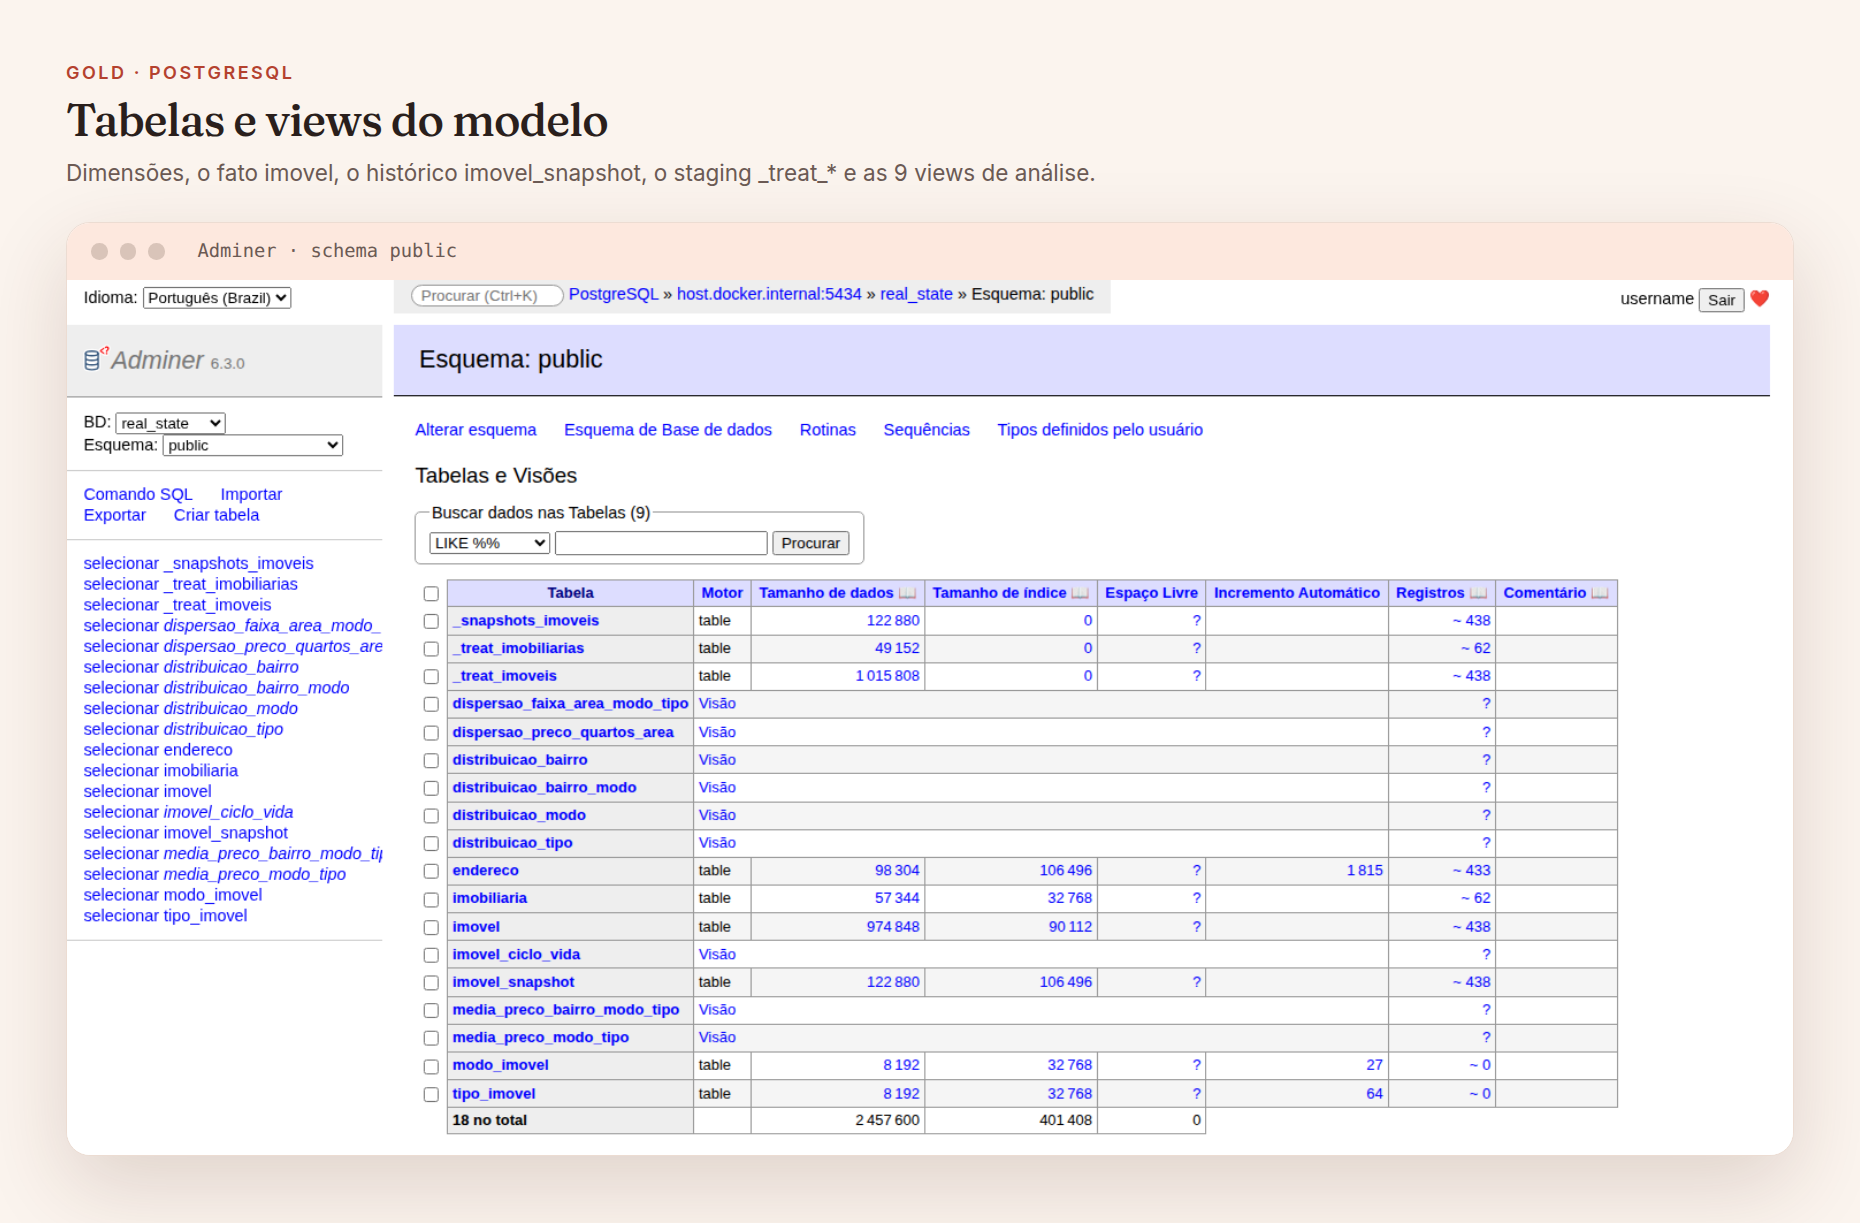
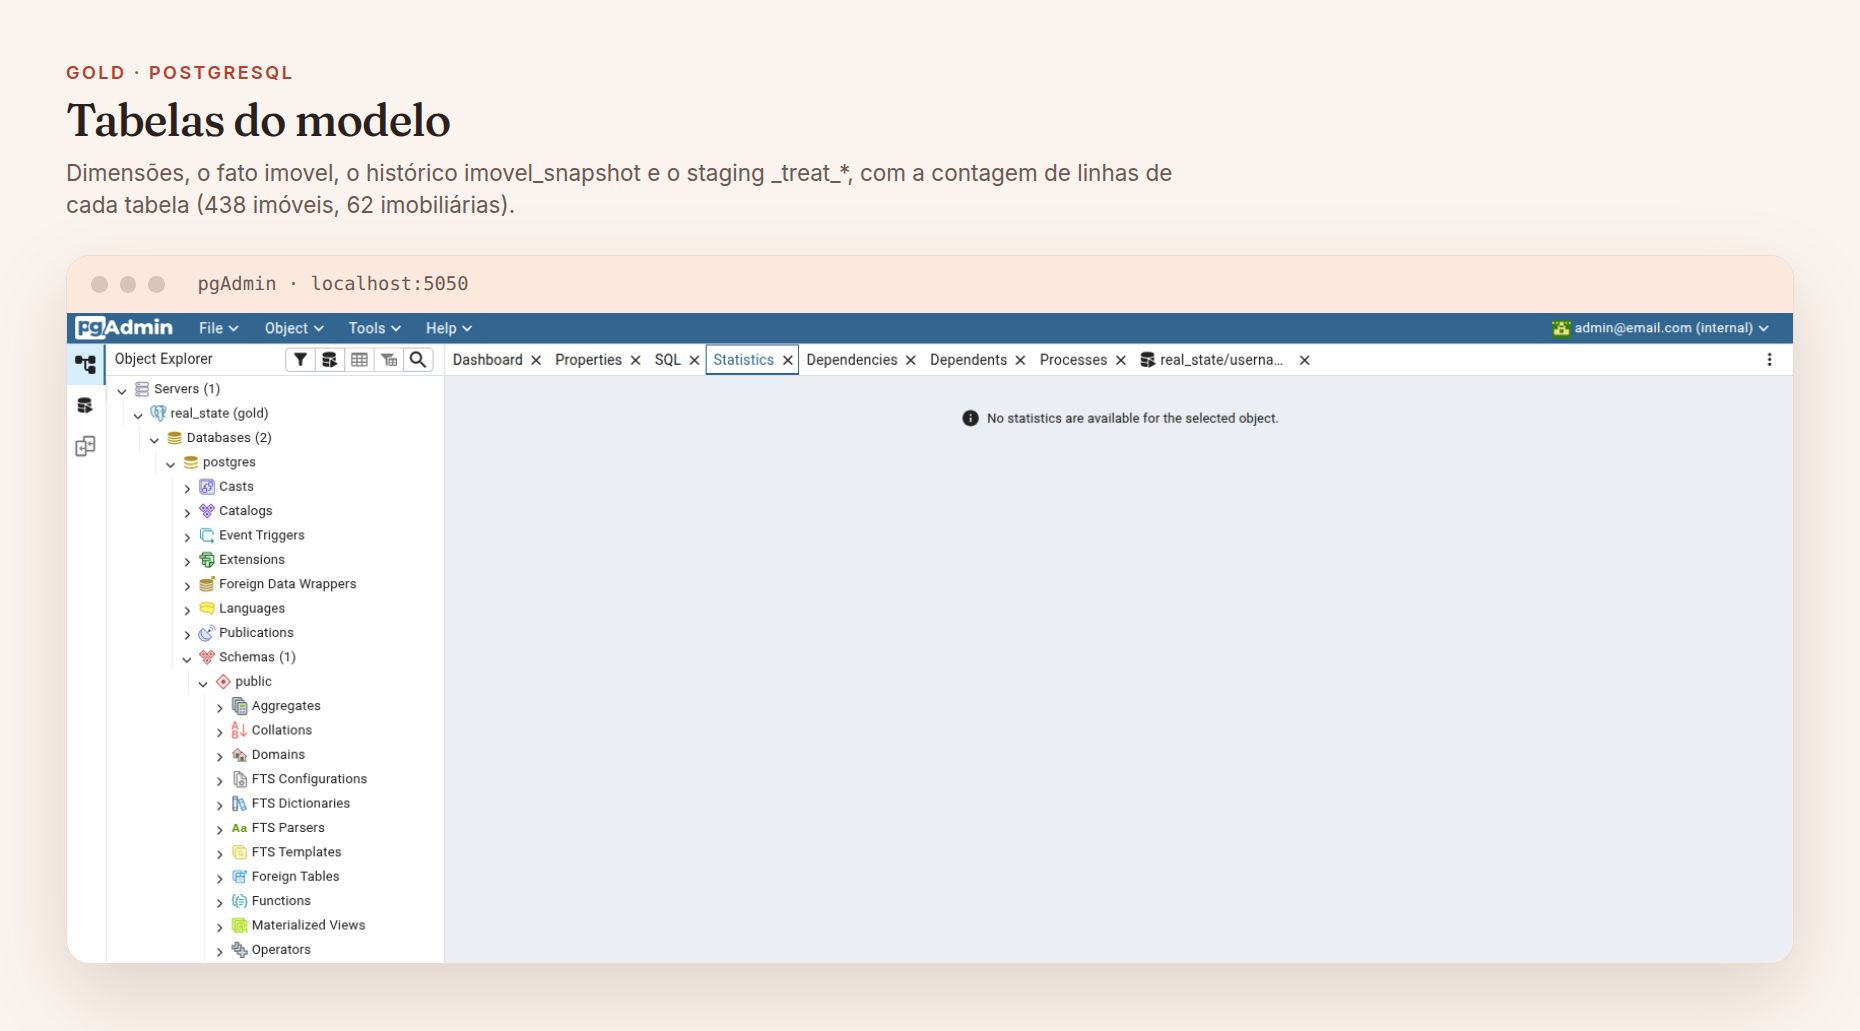
feat: enhance docker-compose setup with pgAdmin integration and add servers.json for database management; update README and build_captures.py for improved tool usage

diff --git a/docs/diagrams/build_captures.py b/docs/diagrams/build_captures.py
@@ -1,8 +1,9 @@
 """Captura as ferramentas reais (storage, Mongo, Postgres) e as coloca em molduras do app.
 
 Uso: python docs/diagrams/build_captures.py
-Requer, no ar: RustFS (9001), Mongo Express (8082) e Adminer (8083), apontando para os bancos
-do projeto (veja o README). Saída em docs/images/capturas/.
+Requer, no ar e com dados: RustFS (9001), Mongo Express (8082) e pgAdmin (5050), todos do
+docker-compose.yml (`docker compose --profile tools up -d`). Saída em docs/images/capturas/.
+Todas as imagens são capturas reais da tela dessas ferramentas, dentro de uma moldura do app.
 """
 import base64
 import io
@@ -11,35 +12,14 @@ import time
 from pathlib import Path
 
 sys.path.insert(0, str(Path(__file__).resolve().parent))
+from selenium.webdriver.common.action_chains import ActionChains  # noqa: E402
 from selenium.webdriver.common.by import By  # noqa: E402
+from selenium.webdriver.common.keys import Keys  # noqa: E402
 from theme import IMAGES, open_browser, page, render, screenshot  # noqa: E402
 
 OUT = IMAGES / "capturas"
-ADMINER = "http://localhost:8083/?pgsql=host.docker.internal%3A5434&username=username&db=real_state"
-
-# Saída real de uma execução (19/11/2026), usada na imagem de terminal
-TERMINAL = [
-    ("cmd", "docker ps"),
-    ("dim", "NAMES                 IMAGE           STATUS"),
-    ("out", "real_state_postgres   postgres:13     Up 2 hours"),
-    ("out", "real_state_mongo      mongo:7.0       Up 2 hours"),
-    ("out", "real_state_minio      rustfs/rustfs   Up About an hour"),
-    ("gap", ""),
-    ("cmd", "WORKER_ID=w1 python scripts/etl/extraction/property.py &"),
-    ("cmd", "WORKER_ID=w2 python scripts/etl/extraction/property.py &"),
-    ("out", "15:48:10 INFO  Worker w1 iniciado"),
-    ("out", "15:48:12 INFO  [w2] anuncio/2026-11-19/2912557103.html.gz"),
-    ("out", "15:48:16 INFO  [w1] anuncio/2026-11-19/2912889421.html.gz"),
-    ("out", "15:48:19 INFO  [w2] anuncio/2026-11-19/2904909009.html.gz"),
-    ("out", "15:48:21 INFO  [w1] anuncio/2026-11-19/2905368929.html.gz"),
-    ("gap", ""),
-    ("cmd", "python scripts/etl/extraction/parse_property.py"),
-    ("out", "INFO  147 HTMLs para processar (reprocess=False)"),
-    ("ok", "INFO  Qualidade: 147 ok, 0 erros, nulos {}"),
-    ("gap", ""),
-    ("cmd", "python scripts/etl/load/model.py"),
-    ("ok", "INFO  Modelagem aplicada"),
-]
+PGADMIN = "http://localhost:5050"
+PG_SERVER = "real_state (gold)"
 
 FIGURES = [
     ("storage-s3", "Bronze · storage S3", "HTML bruto, comprimido",
@@ -51,12 +31,14 @@ FIGURES = [
     ("mongo-qualidade", "Silver · qualidade", "Cada execução deixa suas métricas",
      "O parsing registra o total, os erros e a taxa de campos vazios antes de gravar. "
      "Aqui: 125 e 147 anúncios, 0 erros e 0% de nulos.", "Mongo Express · run_metrics"),
-    ("postgres-tabelas", "Gold · PostgreSQL", "Tabelas e views do modelo",
-     "Dimensões, o fato imovel, o histórico imovel_snapshot, o staging _treat_* e as 9 views de análise.",
-     "Adminer · schema public"),
+    ("postgres-tabelas", "Gold · PostgreSQL", "Tabelas do modelo",
+     "Dimensões, o fato imovel, o histórico imovel_snapshot e o staging _treat_*, com a contagem de "
+     "linhas de cada tabela (438 imóveis, 62 imobiliárias).",
+     "pgAdmin · localhost:5050"),
     ("postgres-view", "Gold · PostgreSQL", "A view imovel_ciclo_vida",
-     "Calcula primeira e última coleta, dias no mercado e variação de preço de cada anúncio (438 registros).",
-     "Adminer · imovel_ciclo_vida"),
+     "Calcula dias no mercado e variação de preço de cada anúncio. Aqui, os 10 anúncios há mais tempo "
+     "no mercado, consultados no Query Tool.",
+     "pgAdmin · Query Tool"),
 ]
 
 FIG_CSS = """
@@ -69,15 +51,6 @@ FIG_CSS = """
 .bar i { width: 11px; height: 11px; border-radius: 50%; background: var(--axis); }
 .bar span { margin-left: 14px; font-size: 12.5px; color: var(--ink-2); }
 .win img { display: block; width: 100%; }
-.term { background: #1d1513; border-radius: 16px; overflow: hidden; box-shadow: 0 20px 56px rgba(80, 40, 25, 0.22); }
-.term .bar { background: #2b201d; }
-.term .bar i { background: #4a3a35; }
-.term .bar span { color: #c9b6ad; }
-.term pre { margin: 0; padding: 22px 26px 26px; font-size: 14px; line-height: 1.7; color: #f6ece6; }
-.term .cmd::before { content: "$ "; color: #e2634d; font-weight: 700; }
-.term .cmd { color: #fff; font-weight: 600; }
-.term .dim { color: #9c8a82; }
-.term .ok { color: #f08a74; }
 """
 
 
@@ -138,20 +111,67 @@ def capture(raw: dict[str, "Image"]) -> None:  # noqa: F821
     finally:
         d.quit()
 
-    # Adminer: tabelas e a view de ciclo de vida
-    d = open_browser(1500, 900)
+    # pgAdmin: estatísticas das tabelas e a view de ciclo de vida (Query Tool)
+    d = open_browser(1700, 1200)
     try:
-        d.get(ADMINER)
-        time.sleep(1.5)
-        d.find_element(By.NAME, "auth[password]").send_keys("password")
-        d.find_element(By.CSS_SELECTOR, "input[type=submit]").click()
+        d.get(f"{PGADMIN}/login")
+        time.sleep(4)
+        d.find_element(By.NAME, "email").send_keys("admin@email.com")
+        d.find_element(By.NAME, "password").send_keys("admin")
+        d.find_element(By.CSS_SELECTOR, "button[type=submit]").click()
+        time.sleep(8)
+
+        def row(label: str, exact: bool = False):
+            xp = (f"//*[normalize-space(text())='{label}']" if exact
+                  else f"//*[starts-with(normalize-space(text()),'{label}')]")
+            deadline = time.time() + 20
+            while time.time() < deadline:
+                found = [e for e in d.find_elements(By.XPATH, xp) if e.is_displayed()]
+                if found:
+                    return found[0]
+                time.sleep(0.5)
+            raise RuntimeError(f"'{label}' não apareceu no pgAdmin")
+
+        def open_node(label: str, exact: bool = False) -> None:
+            row(label, exact).click()
+            time.sleep(1)
+            ActionChains(d).send_keys(Keys.ARROW_RIGHT).perform()
+            time.sleep(3)
+
+        open_node("Servers", exact=True)
+        ActionChains(d).double_click(row(PG_SERVER, exact=True)).perform()
+        time.sleep(3)
+        if d.find_elements(By.XPATH, "//*[normalize-space(text())='Connect to Server']"):
+            ActionChains(d).send_keys("password").send_keys(Keys.ENTER).perform()  # senha local do compose
+            time.sleep(5)
+        row("Login/Group Roles").click()
+        ActionChains(d).send_keys(Keys.ARROW_LEFT).perform()
+        time.sleep(1)
+        open_node("Databases")
+        open_node("real_state", exact=True)
+        open_node("Schemas")
+        open_node("public", exact=True)
+        open_node("Tables")
+        row("Tables").click()
         time.sleep(2)
-        d.get(ADMINER + "&ns=public")
-        time.sleep(1.5)
-        raw["postgres-tabelas"] = screenshot(d, (0, 0, 1500, 760))
-        d.get(ADMINER + "&ns=public&select=imovel_ciclo_vida&limit=8")
-        time.sleep(2)
-        raw["postgres-view"] = screenshot(d, (0, 0, 1500, 620))
+        d.find_element(By.XPATH, "//*[normalize-space(text())='Statistics']").click()
+        time.sleep(3)
+        raw["postgres-tabelas"] = screenshot(d, (0, 0, 1700, 640))
+
+        # Query Tool sobre o banco real_state
+        row("real_state", exact=True).click()
+        time.sleep(1)
+        d.find_element(By.XPATH, "//*[normalize-space(text())='Tools']").click()
+        time.sleep(1)
+        d.find_element(By.XPATH, "//*[normalize-space(text())='Query Tool']").click()
+        time.sleep(6)
+        sql = ("SELECT bairro, modo, preco_atual, variacao_pct, dias_no_mercado FROM imovel_ciclo_vida "
+               "ORDER BY dias_no_mercado DESC NULLS LAST LIMIT 10;")
+        ActionChains(d).send_keys(sql).perform()
+        time.sleep(1)
+        ActionChains(d).send_keys(Keys.F5).perform()
+        time.sleep(5)
+        raw["postgres-view"] = screenshot(d, (0, 0, 1700, 1130))
     finally:
         d.quit()
 
@@ -180,19 +200,6 @@ def main() -> None:
         size = render(page(figure_html(kicker, title, text, url, body), FIG_CSS, False, width),
                       OUT / f"{name}.png", width, scale=1.5)
         print(OUT.relative_to(IMAGES.parent.parent) / f"{name}.png", size)
-
-    lines = "\n".join(
-        f"<span class='{kind}'>{text}</span>" if kind != "gap" else "" for kind, text in TERMINAL
-    )
-    body = (
-        "<div class='term'><div class='bar'><i></i><i></i><i></i><span class='mono'>terminal · saída real de "
-        f"uma execução</span></div><pre class='mono'>{lines}</pre></div>"
-    )
-    text = ("Dois workers em paralelo guardam o HTML, o parsing passa pelo gate de qualidade e a modelagem "
-            "é aplicada em uma transação.")
-    size = render(page(figure_html("Orquestração", "A esteira em execução", text, "", body), FIG_CSS, False, width),
-                  OUT / "terminal-pipeline.png", width, scale=1.5)
-    print(OUT.relative_to(IMAGES.parent.parent) / "terminal-pipeline.png", size)
 
 
 if __name__ == "__main__":

diff --git a/README.md b/README.md
@@ -51,12 +51,12 @@ As decisões de arquitetura e as alternativas descartadas estão em [docs/ARCHIT
 
 ## A arquitetura funcionando
 
-Capturas das próprias ferramentas, com os dados reais da coleta de 19/11/2026: o HTML bruto no storage, as coleções e as métricas de qualidade no MongoDB, as tabelas e a view de ciclo de vida no PostgreSQL e a esteira rodando no terminal.
+Capturas reais da tela das ferramentas do `docker-compose.yml`, com os dados da coleta de 19/11/2026: o HTML bruto no console do RustFS, as coleções e as métricas de qualidade no Mongo Express, e as tabelas e a view de ciclo de vida no pgAdmin. Os mesmos serviços sobem na sua máquina (veja [Como executar](#como-executar)).
 
 <table>
     <tr><td width="50%"><img src="docs/images/capturas/storage-s3.png" alt="HTML bruto no storage S3 (bronze)"></td><td width="50%"><img src="docs/images/capturas/mongo-colecoes.png" alt="Coleções do MongoDB (silver)"></td></tr>
-    <tr><td width="50%"><img src="docs/images/capturas/mongo-qualidade.png" alt="Métricas de qualidade no MongoDB"></td><td width="50%"><img src="docs/images/capturas/postgres-tabelas.png" alt="Tabelas e views no PostgreSQL (gold)"></td></tr>
-    <tr><td width="50%"><img src="docs/images/capturas/postgres-view.png" alt="View imovel_ciclo_vida"></td><td width="50%"><img src="docs/images/capturas/terminal-pipeline.png" alt="A esteira em execução"></td></tr>
+    <tr><td width="50%"><img src="docs/images/capturas/mongo-qualidade.png" alt="Métricas de qualidade no MongoDB"></td><td width="50%"><img src="docs/images/capturas/postgres-tabelas.png" alt="Tabelas do modelo no pgAdmin (gold)"></td></tr>
+    <tr><td colspan="2"><img src="docs/images/capturas/postgres-view.png" alt="View imovel_ciclo_vida consultada no Query Tool do pgAdmin"></td></tr>
 </table>
 
 ## Resultados medidos
@@ -135,6 +135,7 @@ Detalhes em [app/README.md](app/README.md).
 | Armazenamento | MongoDB (silver), PostgreSQL (gold), storage S3-compatível RustFS (bronze) |
 | App | Express, React, Vite, Recharts, d3-geo |
 | Infra | Docker, Docker Compose |
+| Inspeção | pgAdmin (Postgres), Mongo Express (Mongo), console do RustFS (S3) |
 | Qualidade | pytest, ruff |
 
 ## Estrutura do repositório
@@ -157,6 +158,7 @@ Detalhes em [app/README.md](app/README.md).
 │   ├── api/                    # API Express somente leitura
 │   └── web/                    # Frontend React (Vite)
 ├── tests/                      # pytest (unidade e integração) e HTML de exemplo
+├── infra/pgadmin/              # servers.json: servidor do Postgres já registrado no pgAdmin
 ├── docs/                       # arquitetura, backlog, especificações (spec/), experimentos, imagens e diagramas
 ├── docker-compose.yml
 ├── Dockerfile.airflow
@@ -177,6 +179,20 @@ docker compose up -d real_state_postgres mongo object_store
 ```
 
 Sobe Postgres (porta 5434), MongoDB (27017) e o storage S3 (9000, console em 9001). Todos usam `username` / `password` no ambiente local.
+
+Para inspecionar os dados pelo navegador, suba também as interfaces:
+
+```bash
+docker compose --profile tools up -d pgadmin mongo_express
+```
+
+| Ferramenta | Endereço | Acesso |
+|---|---|---|
+| pgAdmin | http://localhost:5050 | `admin@email.com` / `admin`; o servidor `real_state (gold)` já vem registrado e pede a senha `password` |
+| Mongo Express | http://localhost:8082 | sem login |
+| Console do RustFS | http://localhost:9001 | `username` / `password` |
+
+Se o servidor não aparecer no pgAdmin, importe-o com `docker compose exec pgadmin /venv/bin/python3 /pgadmin4/setup.py load-servers /pgadmin4/servers.json --user admin@email.com`.
 
 ### 2. Ambiente Python e variáveis
 
@@ -294,7 +310,7 @@ pytest
 - [docs/BACKLOG.md](docs/BACKLOG.md): melhorias em andamento e planejadas.
 - [docs/spec/mapa-por-bairro.md](docs/spec/mapa-por-bairro.md): especificação do mapa por bairro (fonte do contorno, cobertura medida e critérios de aceite).
 - [app/README.md](app/README.md): app de visualização e endpoints da API.
-- `docs/diagrams/`: scripts que geram os diagramas (`build_diagrams.py`) e as capturas (`build_captures.py`) na mesma identidade visual do app.
+- `docs/diagrams/`: scripts que geram os diagramas (`build_diagrams.py`) e as capturas (`build_captures.py`) na mesma identidade visual do app. As capturas usam as ferramentas reais do compose (`docker compose --profile tools up -d`, com dados carregados).
 
 ## Autor
 
